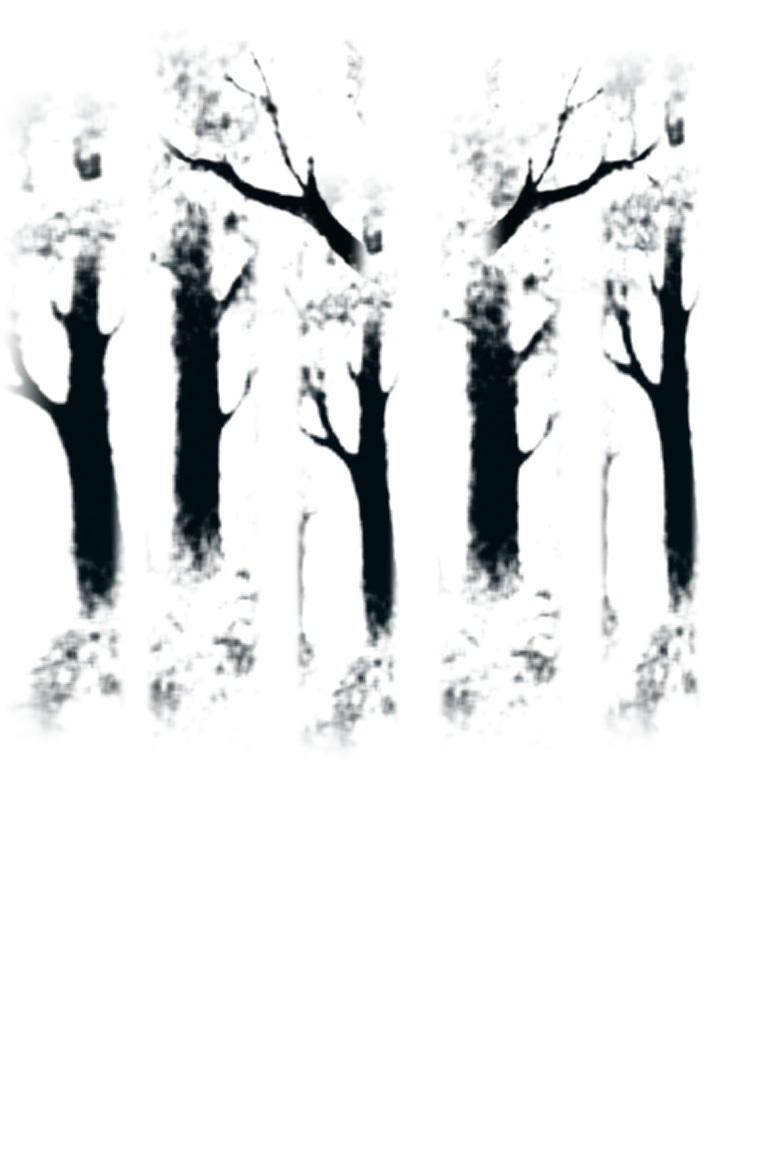
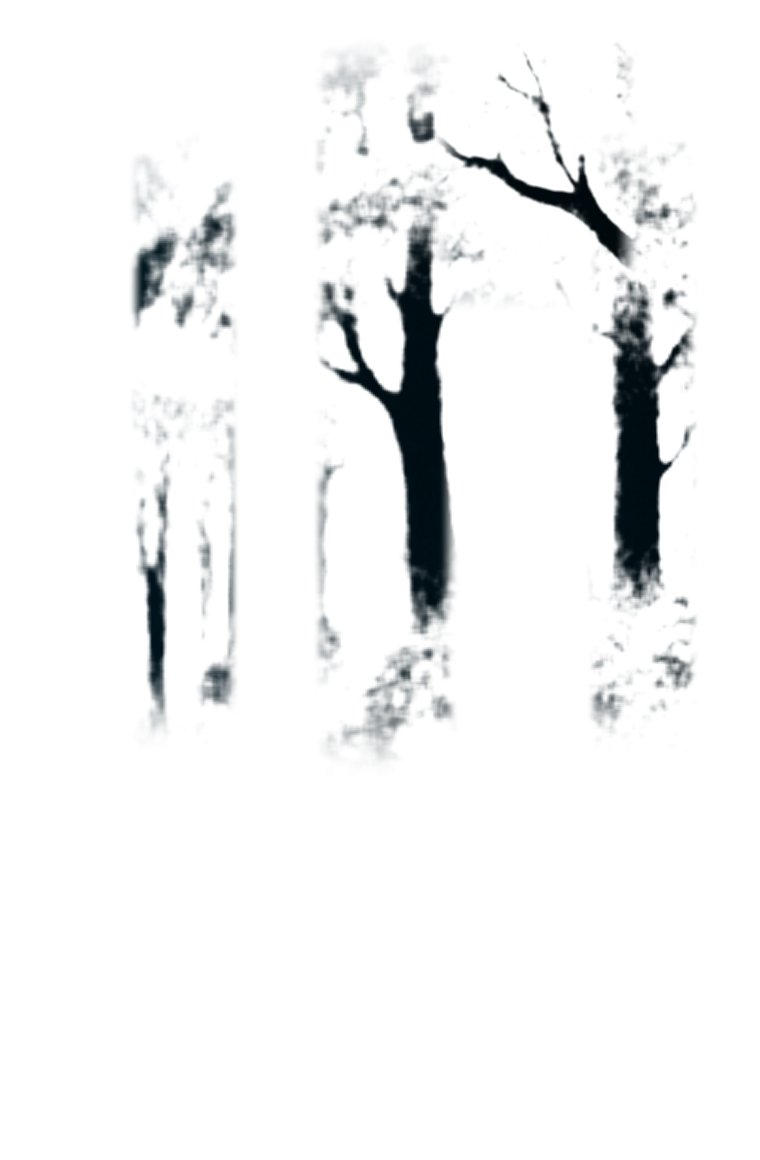
feat(scene): give each side of the Lisiere its own trees
On ultra-wide screens both sides showed the same large trunk and ferns, and
the far trunks repeated. Each side now only uses the trees from its own half
of background.png, each piece once per layer. The script stays in the lab, and
the credits name it.

Refs: #MAE-2

Changed region(s): [[0.0, 0.031, 0.9382, 0.6517], [0.0908, 0.0931, 0.1513, 0.1552]]

diff --git a/CREDITS.md b/CREDITS.md
@@ -92,13 +92,13 @@ D'après l'audit du 11/10/2026, ces images ont été générées environ un an p
 
 ### Décor de la Lisière
 
-Générée par Wesley avec Gemini (Google) le 03/11/2026, puis préparée par un script gardé hors du dépôt, dans le labo du projet (`tools/prepare-lisiere.mjs`), avec l'image d'origine.
+Générée par Wesley avec Gemini (Google) le 03/11/2026, puis préparée par un script gardé hors du dépôt, dans le labo du projet (`tools/prepare-lisiere.mjs` et `tools/prepare-lisiere-2.mjs`), avec l'image d'origine.
 
 | Image | Contenu | Origine |
 |---|---|---|
 | `public/images/backdrops/lisiere/wide.png` | La peinture et ses prolongements | Générée avec Gemini (Google) : couleurs et luminosité ramenées à celles de `background.png`, grain ajouté par le code. Prolongements repris de `background.png` (ChatGPT, OpenAI) |
 | `foreground.png`, `glints.png` | Fougères qui se balancent, lucioles et fleurs qui luisent | Découpées dans la même image (Gemini) |
-| `depth.png` | Carte de profondeur | Calculée par le script |
+| `depth.png` | Carte de profondeur | Calculée par le script, d'après les troncs relevés à la main sur la peinture |
 | `side-far-*.png`, `side-near-*.png`, `side-glints-*.png`, `corner-*.png` | Forêt des côtés des écrans larges, fougères des coins | Découpées dans `background.png` (ChatGPT, OpenAI) par un script : morceaux retournés, étirés ou assombris |
 
 Conditions de Google et d'OpenAI : voir « Conditions des outils » plus haut.
